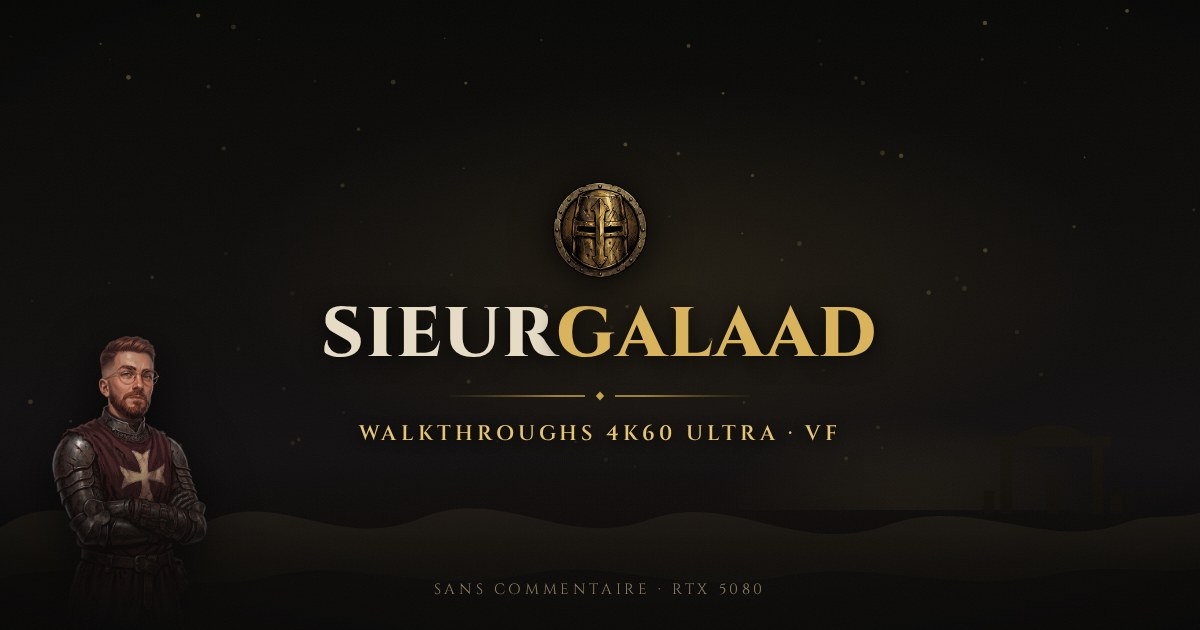
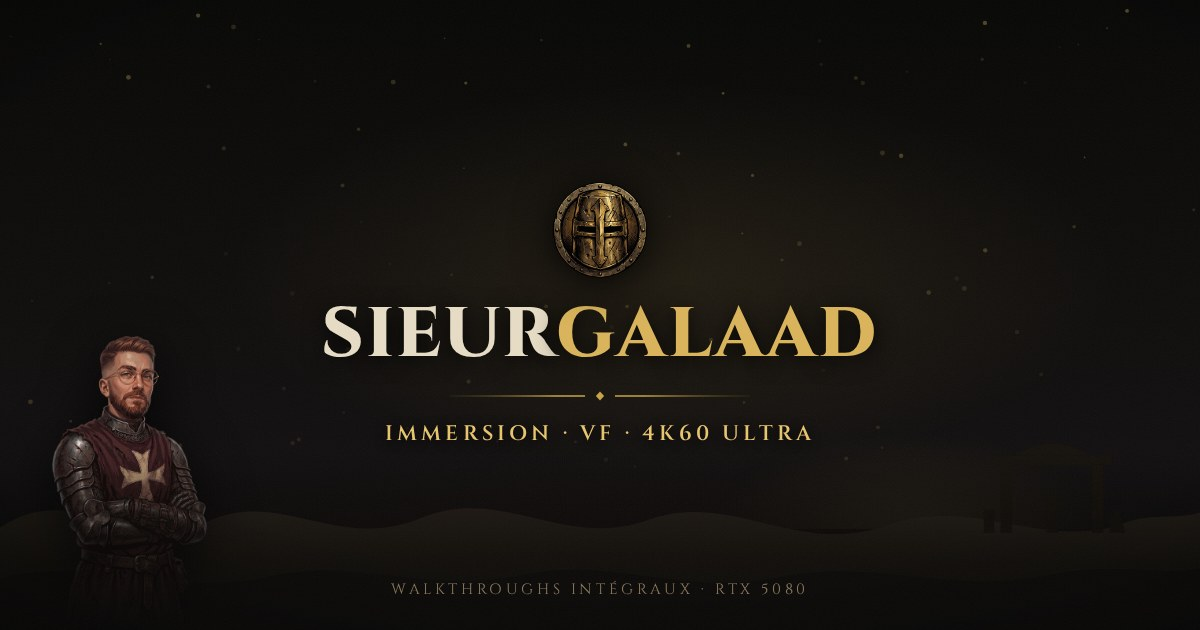
Add files via upload

diff --git a/index.html b/index.html
@@ -4,7 +4,7 @@
 <meta charset="utf-8">
 <meta name="viewport" content="width=device-width, initial-scale=1">
 <title>SieurGalaad — Walkthroughs 4K60 Ultra</title>
-<meta name="description" content="Walkthroughs complets en 4K60 ultra, sans commentaire, en version française. Vidéos, planning de jeu, sorties PC à venir et configuration de capture de la chaîne SieurGalaad.">
+<meta name="description" content="Immersion, VF, 4K60 Ultra : des walkthroughs complets commentés en version française. Planning de jeu, sorties PC à venir et configuration de capture.">
 <meta name="theme-color" content="#0c0b0a">
 <!-- Déclare que la page est déjà sombre. Sans ça, le mode sombre automatique
      de Chrome la considère comme claire et lui applique son propre filtre :
@@ -12,7 +12,7 @@
 <meta name="color-scheme" content="dark">
 <meta property="og:type" content="website">
 <meta property="og:title" content="SieurGalaad — Walkthroughs 4K60 Ultra">
-<meta property="og:description" content="Walkthroughs complets en 4K60 ultra, sans commentaire, en version française.">
+<meta property="og:description" content="Immersion · VF · 4K60 Ultra — des walkthroughs complets, commentés en version française.">
 <meta property="og:locale" content="fr_FR">
 <meta property="og:site_name" content="SieurGalaad">
 <meta property="og:url" content="https://sieurgalaad.github.io/website/">
@@ -22,13 +22,13 @@
      sur un nom de domaine, ce sont ces trois adresses a changer.
      Le ?v= sert a forcer les reseaux a relire l'image : ils la gardent en
      cache tres longtemps, parfois plusieurs semaines. -->
-<meta property="og:image" content="https://sieurgalaad.github.io/website/assets/img/partage.jpg?v=2026-09-19e">
+<meta property="og:image" content="https://sieurgalaad.github.io/website/assets/img/partage.jpg?v=2026-09-21c">
 <meta property="og:image:type" content="image/jpeg">
 <meta property="og:image:width" content="1200">
 <meta property="og:image:height" content="630">
-<meta property="og:image:alt" content="SieurGalaad — walkthroughs 4K60 ultra, en version francaise, sans commentaire">
+<meta property="og:image:alt" content="SieurGalaad — immersion, VF, 4K60 ultra. Walkthroughs complets commentes.">
 <meta name="twitter:card" content="summary_large_image">
-<meta name="twitter:image" content="https://sieurgalaad.github.io/website/assets/img/partage.jpg?v=2026-09-19e">
+<meta name="twitter:image" content="https://sieurgalaad.github.io/website/assets/img/partage.jpg?v=2026-09-21c">
 <link rel="preconnect" href="https://fonts.googleapis.com">
 <link rel="preconnect" href="https://fonts.gstatic.com" crossorigin>
 <link href="https://fonts.googleapis.com/css2?family=Cinzel:wght@400;600;800&family=Spectral:ital,wght@0,300;0,400;0,600;1,300&display=swap" rel="stylesheet">
@@ -36,7 +36,7 @@
      de style et le script des qu'ils changent. Sans lui, un visiteur garde
      l'ancienne version jusqu'a 10 minutes, voire plus. Il est mis a jour a
      chaque livraison. -->
-<link rel="stylesheet" href="assets/css/style.css?v=2026-09-19e">
+<link rel="stylesheet" href="assets/css/style.css?v=2026-09-21c">
 <!-- Icone d'onglet : remplace assets/img/logo.png par ton logo, rien d'autre a faire. -->
 <link rel="icon" type="image/png" href="assets/img/logo.png">
 <link rel="apple-touch-icon" href="assets/img/logo.png">
@@ -148,8 +148,8 @@
       <span class="heros-titre-ligne">Sieur</span><span class="heros-titre-ligne heros-titre-ligne--or">Galaad</span>
     </h1>
     <p class="heros-accroche" data-apparition>
-      Des aventures jouées d'un bout à l'autre, en version française, sans commentaire.
-      L'image, le son du jeu, et rien entre les deux.
+      Des aventures jouées d'un bout à l'autre, en version française et commentées.
+      Tout est réglé pour une seule chose : l'immersion.
     </p>
     <div class="heros-actions" data-apparition>
       <a class="bouton bouton--or" href="#affiche">Voir la dernière vidéo</a>
@@ -317,7 +317,7 @@
       <img class="pied-logo" src="assets/img/logo.png" alt="" width="46" height="46" decoding="async">
       <div>
         <p class="marque-texte marque-texte--pied">Sieur<em>Galaad</em></p>
-        <p class="pied-note">Walkthroughs complets, 4K60 ultra, version française, sans commentaire.</p>
+        <p class="pied-note">Immersion &middot; VF &middot; 4K60 Ultra &mdash; walkthroughs complets, commentés.</p>
       </div>
     </div>
     <nav class="pied-liens" aria-label="Liens externes">
@@ -333,6 +333,6 @@
   </div>
 </footer>
 
-<script src="assets/js/main.js?v=2026-09-19e"></script>
+<script src="assets/js/main.js?v=2026-09-21c"></script>
 </body>
 </html>
